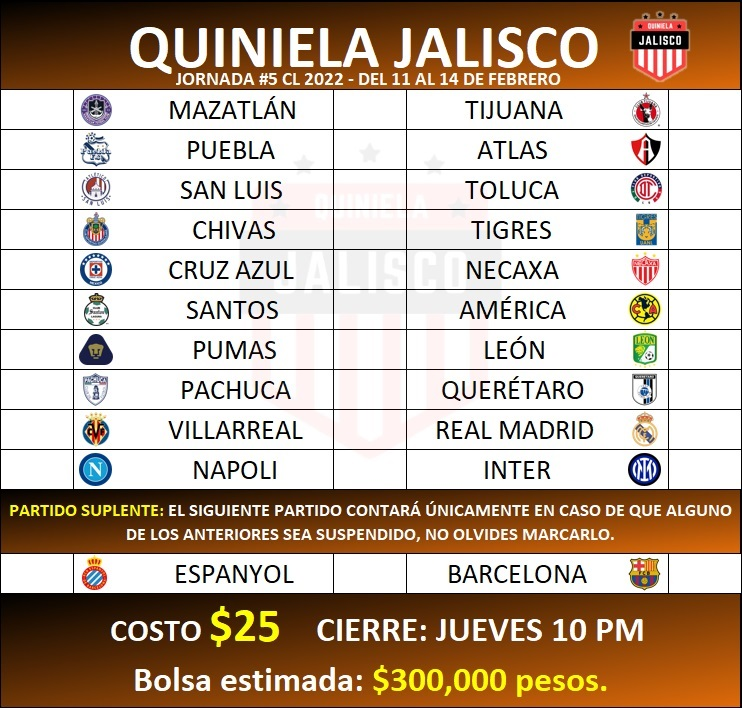
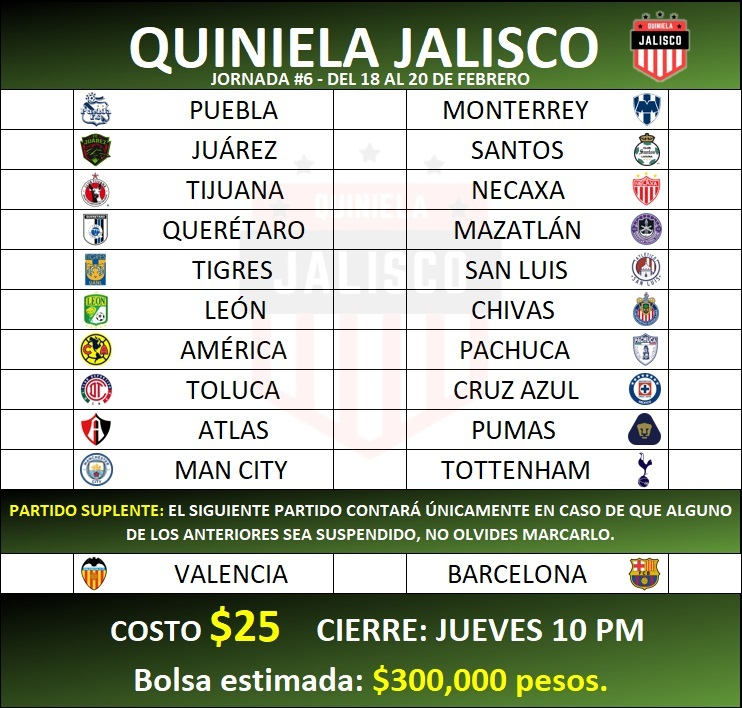
Jornada 6 C22

diff --git a/11/styles11.css b/11/styles11.css
@@ -88,8 +88,8 @@ h1{
     margin-top: 9%;
     border: solid 1px black;
     border-radius: 0 0 14px 14px;
-    background: -webkit-linear-gradient(0.54turn, rgb(172,81,10)  ,rgb(0,0,0) 80%);
-    background: linear-gradient(0.54turn, rgb(172,81,10)  ,rgb(0,0,0) 80%);
+    background: -webkit-linear-gradient(0.54turn, rgb(75,117,45)  ,rgb(0,0,0) 80%);
+    background: linear-gradient(0.54turn, rgb(75,117,45)  ,rgb(0,0,0) 80%);
     font-size: x-large;
 }
 
